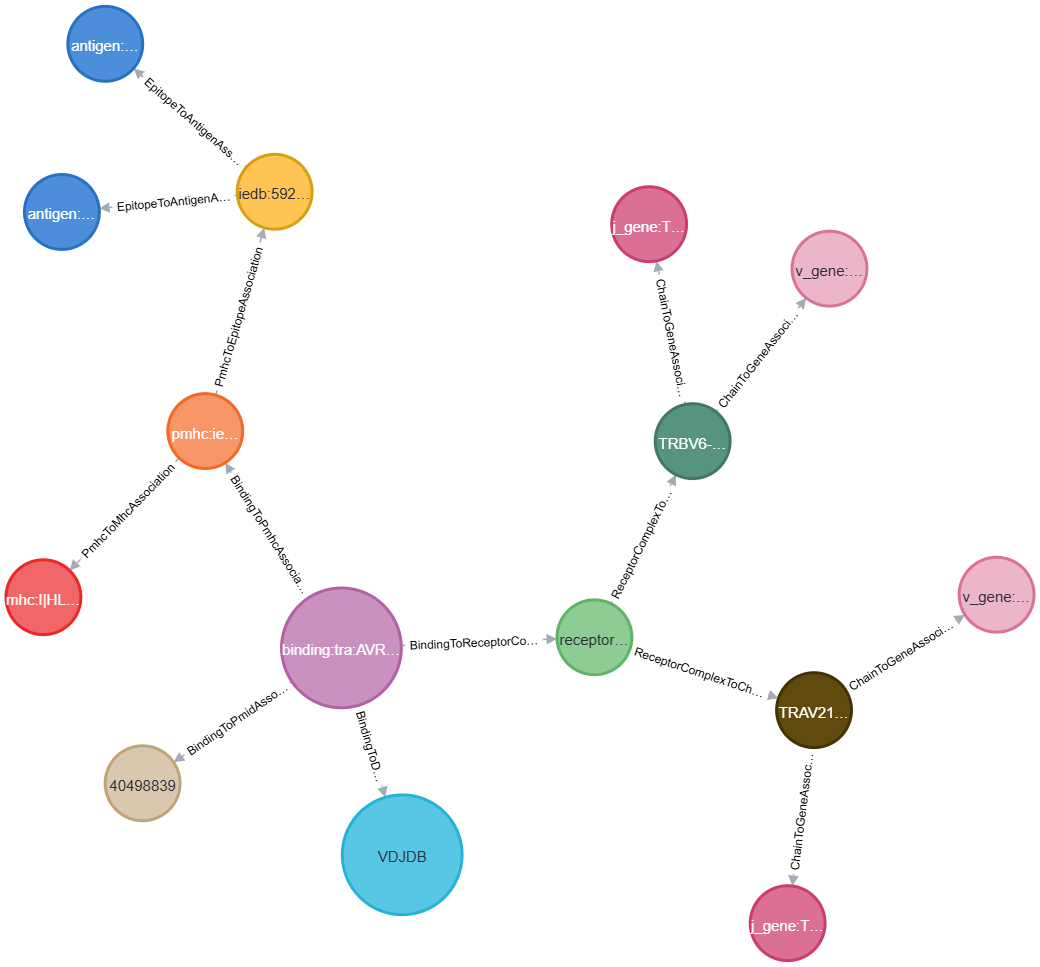
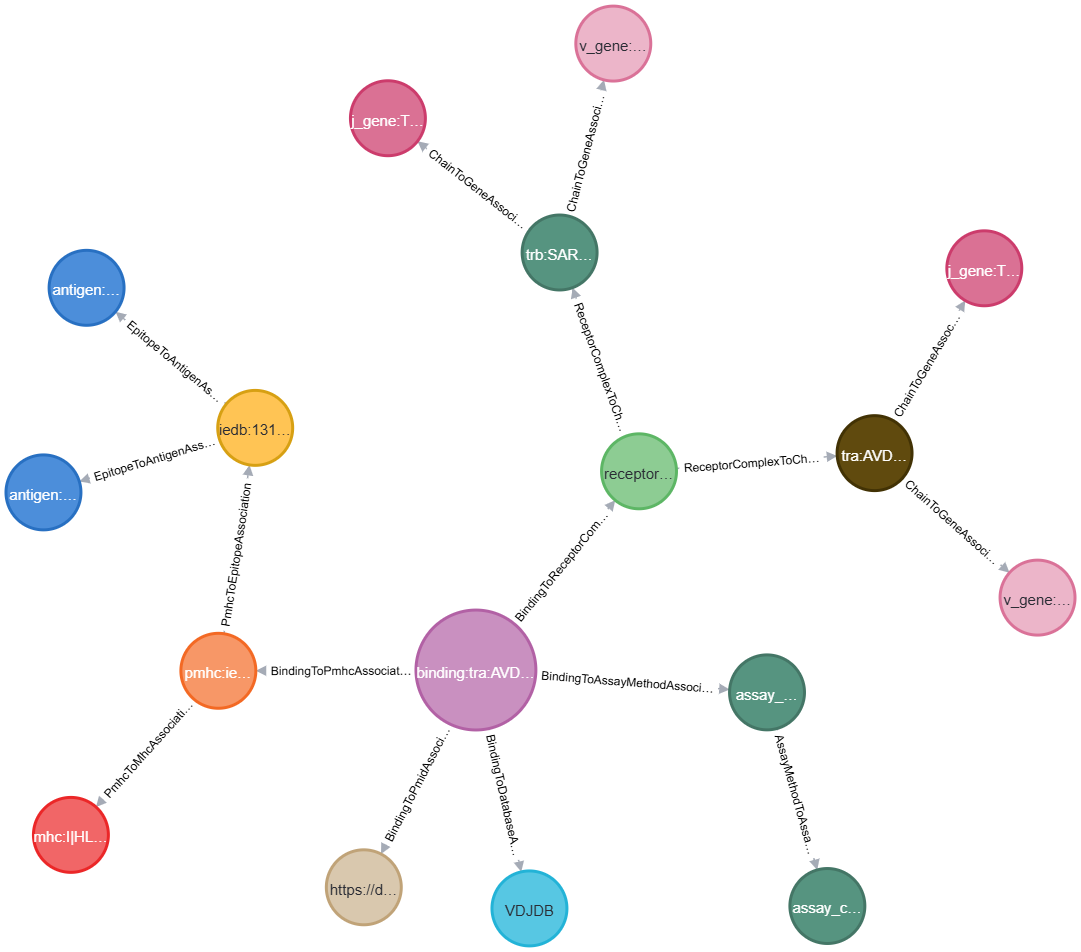
add assay nodes and edges to the kg

diff --git a/src/iggytop/adapters/mapping_utils.py b/src/iggytop/adapters/mapping_utils.py
@@ -304,6 +304,7 @@ _ASSAY_TOKEN_CATEGORY = {
     "ctl clone": ASSAY_CLONAL,
     # biophysical affinity
     "spr": ASSAY_AFFINITY,
+    "focal molography": ASSAY_AFFINITY,
     "bli": ASSAY_AFFINITY,
     # structural
     "structural": ASSAY_STRUCTURAL,
@@ -348,6 +349,25 @@ _IEDB_READOUT_CATEGORY = {
 }
 
 _ASSAY_SEP = "|"
+
+# Method string -> evidence class, filled by `combine_assays` as each source's table is
+# harmonized. The two harmonized columns are independently "|"-joined *sets*, so a record
+# backed by several assays no longer says which of its methods yielded which of its
+# categories -- and the knowledge graph needs exactly that pairing, to link each assay
+# method node to its own category.
+_METHOD_CATEGORY: dict[str, str] = {}
+
+
+def assay_method_categories(value) -> dict[str, str]:
+    """Split one ``assay_method_raw`` cell into ``{method: its own evidence class}``.
+
+    A method that was never categorized (or that no rule matched) maps to ``unknown``.
+    """
+    if value is None or str(value).strip().lower() in ("", "nan"):
+        return {}
+    methods = [m.strip() for m in str(value).split(_ASSAY_SEP) if m.strip()]
+    return {m: _METHOD_CATEGORY.get(m.lower(), ASSAY_UNKNOWN) for m in methods}
+
 
 # A concrete method string that no category rule matched falls through to
 # ``unknown``; every such string is recorded here and dumped to a log file at the
@@ -422,12 +442,20 @@ def combine_assays(pairs) -> tuple[str | None, str]:
     Shared primitive for adapters whose method vocabulary lives in the adapter
     itself (MCPAS codes, BATCAVE assays). Raw tokens are lower-cased, sorted,
     de-duplicated and ``"|"``-joined; categories likewise, with ``"unknown"``
-    dropped whenever a concrete category is present.
+    dropped whenever a concrete category is present. Each pair is also registered in
+    ``_METHOD_CATEGORY``, so :func:`assay_method_categories` can recover which method
+    yielded which category after both have been collapsed into joined sets.
 
     Returns:
         ``(assay_method_raw, assay_category)`` — the category is never None.
     """
     pairs = list(pairs)
+    for raw_token, category in pairs:
+        # A concrete category always wins over `unknown`, so the order in which sources
+        # are read cannot change what `assay_method_categories` reports.
+        key = str(raw_token).strip().lower() if raw_token else ""
+        if key and _METHOD_CATEGORY.get(key, ASSAY_UNKNOWN) == ASSAY_UNKNOWN:
+            _METHOD_CATEGORY[key] = category
     raw = _join_unique(str(r).strip().lower() for r, _ in pairs if r and str(r).strip())
     return raw, _finalize_categories(c for _, c in pairs)
 
@@ -452,7 +480,15 @@ def harmonize_assay_verbs(values, source: str = "?") -> tuple[str | None, str]:
 
 
 def harmonize_assay_iedb(assay_names, source: str = "IEDB") -> tuple[str | None, str]:
-    """Harmonize IEDB/CEDAR ``assay_names`` strings ("readout|technique|unit")."""
+    """Harmonize IEDB/CEDAR ``assay_names`` strings ("readout|technique|unit").
+
+    The method string is normally the technique alone. A *generic* technique (one that
+    doesn't decide the category by itself, notably ``"binding assay"``) is qualified with
+    its readout -- ``"binding assay (dissociation constant kd)"`` -- so the affinity-bearing
+    and uninformative senses stay distinct. They otherwise collapse onto one method string,
+    and since a method carries exactly one category through the knowledge graph, the whole
+    node would inherit whichever sense happened to be concrete.
+    """
     pairs: list[tuple[str, str]] = []
     for name in _iter_nonempty(assay_names):
         parts = [p.strip() for p in str(name).split("|") if p.strip()]
@@ -463,7 +499,13 @@ def harmonize_assay_iedb(assay_names, source: str = "IEDB") -> tuple[str | None,
         raw = technique or readout
         category = _IEDB_TECHNIQUE_CATEGORY.get(technique)
         if category is None or technique == "binding assay":
-            category = _IEDB_READOUT_CATEGORY.get(readout, category)
+            readout_category = _IEDB_READOUT_CATEGORY.get(readout)
+            if readout_category is not None:
+                category = readout_category
+                # The technique alone didn't decide it, so keep the deciding readout in the
+                # method string. Without a technique, `raw` is already the readout.
+                if technique:
+                    raw = f"{technique} ({readout})"
         if not category:
             note_unmapped_assay(source, raw)
             category = ASSAY_UNKNOWN

diff --git a/tests/test_mapping_utils.py b/tests/test_mapping_utils.py
@@ -2,6 +2,7 @@
 
 from iggytop.adapters.mapping_utils import (
     ASSAY_CATEGORIES,
+    assay_method_categories,
     canonicalize_assay_token,
     combine_assays,
     harmonize_assay_iedb,
@@ -50,6 +51,8 @@ def test_harmonize_assay_iedb_reads_technique_field():
         "multimer_binding",
     )
     assert harmonize_assay_iedb(["dissociation constant KD|surface plasmon resonance (SPR)|nM"])[1] == "biophysical_affinity"
+    # a technique that decides the category on its own is not qualified with its readout
+    assert harmonize_assay_iedb(["dissociation constant KD|surface plasmon resonance (SPR)|nM"])[0] == "surface plasmon resonance (spr)"
     assert harmonize_assay_iedb(["3D structure|x-ray crystallography|angstroms"])[1] == "structural"
     assert harmonize_assay_iedb(["T cell binding|High throughput multiplexed assay"])[1] == "high_throughput_screen"
     # several assays on one record combine
@@ -65,6 +68,53 @@ def test_combine_assays_primitive():
     assert raw == "elisa|t-scan"
     assert cat == "functional_activation|high_throughput_screen"
     assert combine_assays([(None, "unknown")]) == (None, "unknown")
+
+
+def test_harmonize_assay_iedb_qualifies_a_generic_technique():
+    # "binding assay" means different things depending on its readout, so the two senses
+    # must not collapse onto one method string: a method carries exactly one category
+    # through the knowledge graph, and the shared node would inherit the concrete one.
+    affinity_raw, affinity_cat = harmonize_assay_iedb(["dissociation constant KD|binding assay|nM"])
+    assert affinity_raw == "binding assay (dissociation constant kd)"
+    assert affinity_cat == "biophysical_affinity"
+
+    plain_raw, plain_cat = harmonize_assay_iedb(["qualitative binding|binding assay"])
+    assert plain_raw == "binding assay"
+    assert plain_cat == "unknown"
+
+    assert affinity_raw != plain_raw
+    assert assay_method_categories(affinity_raw) == {"binding assay (dissociation constant kd)": "biophysical_affinity"}
+    assert assay_method_categories(plain_raw) == {"binding assay": "unknown"}
+
+    # a readout-only record (no technique component) is not double-qualified
+    assert harmonize_assay_iedb(["dissociation constant KD"]) == ("dissociation constant kd", "biophysical_affinity")
+
+
+def test_assay_method_categories_keeps_the_pairing():
+    # The two harmonized columns are independent joined sets, so the knowledge graph
+    # recovers each method's own category from the method string alone.
+    raw, cat = harmonize_assay_verbs("peptide-stimulation,tetramer-sort")
+    assert raw == "peptide-stimulation|tetramer-sort"
+    assert cat == "functional_activation|multimer_binding"
+    assert assay_method_categories(raw) == {
+        "peptide-stimulation": "functional_activation",
+        "tetramer-sort": "multimer_binding",
+    }
+    # a method no source harmonized, and one that was but stayed uncategorized
+    assert assay_method_categories("never-seen-this") == {"never-seen-this": "unknown"}
+    raw, _ = harmonize_assay_verbs("some-new-assay")
+    assert assay_method_categories(raw) == {"some-new-assay": "unknown"}
+    # a record whose source reports no method at all contributes nothing
+    for empty in (None, "", "  ", "nan"):
+        assert assay_method_categories(empty) == {}
+
+
+def test_assay_method_categories_prefers_a_concrete_category():
+    # Registration order must not matter: a concrete category always wins over `unknown`.
+    combine_assays([("ambiguous-assay", "unknown")])
+    combine_assays([("ambiguous-assay", "structural")])
+    combine_assays([("ambiguous-assay", "unknown")])
+    assert assay_method_categories("ambiguous-assay") == {"ambiguous-assay": "structural"}
 
 
 def test_every_category_emitted_is_declared():

diff --git a/src/iggytop/adapters/ontoweaver_transformers.py b/src/iggytop/adapters/ontoweaver_transformers.py
@@ -1,7 +1,8 @@
 """Custom OntoWeaver transformers used by BaseAdapter's OntoWeaver-based node/edge generation.
 
-The graph has a layered hub-and-spoke shape (binding -> {receptor_complex, pmhc, database, PMID},
-receptor_complex -> {chain_1, chain_2}, chain_N -> {v_gene, j_gene}, pmhc -> {epitope, mhc}). OntoWeaver
+The graph has a layered hub-and-spoke shape (binding -> {receptor_complex, pmhc, database, PMID,
+assay_method}, receptor_complex -> {chain_1, chain_2}, chain_N -> {v_gene, j_gene},
+pmhc -> {epitope, mhc}). OntoWeaver
 maps one row-subject with radiating edges per mapping pass, so each hub in that hierarchy needs its own
 mapping pass (see the `ontoweaver_mapping_*.yaml` files), reconciled together afterwards. Composite
 entities (receptor_complex, pmhc, binding) don't have a column holding their id directly -- their id is
@@ -188,14 +189,17 @@ class prefixed_id(base.Transformer):  # noqa: N801
 
     `prefix` is a mapping-level parameter (e.g. `prefixed_id: {columns: [chain_1_v_call], prefix: v_gene, ...}`),
     used for reference/leaf entities whose id is the whole of their informational content (v_gene, j_gene, PMID).
+    The optional `separator` parameter splits the column value first, yielding one id per part -- for columns
+    holding a joined *set* of values (a record's `assay_method_raw` is "|"-joined when several assays support it).
     """
 
     class ValueMaker(ValueMaker):
-        """Computes the id value for a single row; see the enclosing class's docstring."""
+        """Computes the id value(s) for a single row; see the enclosing class's docstring."""
 
-        def __init__(self, prefix: str, raise_errors: bool = True):
-            """Store the prefix to prepend to the column value."""
+        def __init__(self, prefix: str, separator: str | None = None, raise_errors: bool = True):
+            """Store the prefix to prepend to each value, and the separator to split the cell on."""
             self.prefix = prefix
+            self.separator = separator
             super().__init__(raise_errors)
 
         def __call__(self, columns, row, i):
@@ -203,7 +207,9 @@ class prefixed_id(base.Transformer):  # noqa: N801
             if col not in row or _is_missing(row[col]):
                 yield ""
                 return
-            yield f"{self.prefix}:{row[col]}"
+            value = str(row[col])
+            for part in value.split(self.separator) if self.separator else [value]:
+                yield f"{self.prefix}:{part.strip()}" if part.strip() else ""
 
     def __init__(  # noqa: PLR0913 (signature mirrors ontoweaver.base.Transformer's, e.g. `cat`)
         self,
@@ -215,10 +221,11 @@ class prefixed_id(base.Transformer):  # noqa: N801
         multi_type_dict=None,
         raise_errors=True,
         prefix=None,
+        separator=None,
         **kwargs,
     ):
         """Initialize the transformer (see the class docstring)."""
-        self.value_maker = self.ValueMaker(prefix, raise_errors=raise_errors)
+        self.value_maker = self.ValueMaker(prefix, separator, raise_errors=raise_errors)
         super().__init__(
             properties_of,
             self.value_maker,

diff --git a/src/iggytop/adapters/base_adapter.py b/src/iggytop/adapters/base_adapter.py
@@ -18,6 +18,7 @@ from tqdm.auto import tqdm
 
 from . import ontoweaver_transformers  # noqa: F401 (registers the custom id transformers)
 from .constants import REGISTRY_KEYS
+from .mapping_utils import assay_method_categories
 from .utils import get_file_checksum
 
 if TYPE_CHECKING:
@@ -31,7 +32,7 @@ def _load_ontoweaver_mapping(filename: str) -> dict:
 
 
 # One mapping per hub in the graph's hub-and-spoke hierarchy:
-#   binding -> {receptor_complex, pmhc, database, PMID}
+#   binding -> {receptor_complex, pmhc, database, PMID, assay_method}
 #   receptor_complex -> {chain_1, chain_2}
 #   chain_N -> {v_gene, j_gene}
 #   pmhc -> {epitope, mhc}
@@ -230,7 +231,7 @@ class BaseAdapter(ABC):
             table = self.table.copy()
 
             # Add any missing columns that OntoWeaver expects to see, but which may not be present in the table
-            for _col in (REGISTRY_KEYS.MHC_GENE_2_KEY, REGISTRY_KEYS.TISSUE_KEY):
+            for _col in (REGISTRY_KEYS.MHC_GENE_2_KEY, REGISTRY_KEYS.TISSUE_KEY, REGISTRY_KEYS.ASSAY_METHOD_RAW_KEY):
                 if _col not in table.columns:
                     table[_col] = None
 
@@ -269,9 +270,27 @@ class BaseAdapter(ABC):
                 [(table, mapping) for mapping in _ONTOWEAVER_MAPPINGS],
                 affix="none",
             )
+            node_tuples = [n.as_tuple() for n in nodes]
+            edge_tuples = [e.as_tuple() for e in edges]
+
+            # A method belongs to exactly one assay_category, so `assay_method -> assay_category`
+            # is a handful of vocabulary edges rather than per-record data (the binding ->
+            # assay_method edges, which *are* per-record, come from the binding mapping; the
+            # reconciliation below merges its property-less method nodes with the ones added here).
+            # It also can't be mapped row-wise: a row's two assay columns are independently
+            # "|"-joined sets, so pairing them off would link every method of a multi-assay record
+            # to every one of its categories -- `assay_method_categories` restores the pairing.
+            for cell in table[REGISTRY_KEYS.ASSAY_METHOD_RAW_KEY].unique():
+                for method, category in assay_method_categories(cell).items():
+                    method_id, category_id = f"assay_method:{method}", f"assay_category:{category}"
+                    node_tuples.append((method_id, "assay_method", {"method": method}))
+                    node_tuples.append((category_id, "assay_category", {"category": category}))
+                    edge_id = f"({method_id})--[assay_method_to_assay_category]->({category_id})"
+                    edge_tuples.append((edge_id, method_id, category_id, "assay_method_to_assay_category", {}))
+
             fnodes, fedges = ontoweaver.fusion.reconciliate(
-                [n.as_tuple() for n in nodes],
-                [e.as_tuple() for e in edges],
+                node_tuples,
+                edge_tuples,
                 reconciliate_sep=",",
                 progress_bar=True,
             )

diff --git a/src/iggytop/adapters/tcr3d_adapter.py b/src/iggytop/adapters/tcr3d_adapter.py
@@ -3,6 +3,7 @@ from biocypher import BioCypher, FileDownload
 
 from .base_adapter import BaseAdapter
 from .constants import REGISTRY_KEYS
+from .mapping_utils import ASSAY_STRUCTURAL, combine_assays
 from .utils import harmonize_sequences, normalize_table_strings
 
 
@@ -84,9 +85,12 @@ class TCR3DAdapter(BaseAdapter):
         table = table[list(rename_cols.values())]
 
         # Every TCR3D entry is a solved TCR-pMHC co-structure (the source carries a
-        # PDB ID and resolution but no per-entry method column).
-        table[REGISTRY_KEYS.ASSAY_METHOD_RAW_KEY] = "structural"
-        table[REGISTRY_KEYS.ASSAY_CATEGORY_KEY] = "structural"
+        # PDB ID and resolution but no per-entry method column). Routed through
+        # `combine_assays` like every other source, so the method also registers its
+        # category for the knowledge graph's method -> category edge.
+        raw, category = combine_assays([("structural", ASSAY_STRUCTURAL)])
+        table[REGISTRY_KEYS.ASSAY_METHOD_RAW_KEY] = raw
+        table[REGISTRY_KEYS.ASSAY_CATEGORY_KEY] = category
 
         # Pubmed IDs are sometimes parsed as floats (e.g. 8906788.0); convert to clean strings
         table[REGISTRY_KEYS.PUBLICATION_KEY] = table[REGISTRY_KEYS.PUBLICATION_KEY].apply(

diff --git a/src/iggytop/adapters/itrap_adapter.py b/src/iggytop/adapters/itrap_adapter.py
@@ -3,6 +3,7 @@ from biocypher import BioCypher, FileDownload
 
 from .base_adapter import BaseAdapter
 from .constants import REGISTRY_KEYS
+from .mapping_utils import ASSAY_MULTIMER, combine_assays
 from .utils import get_github_file_last_modified, harmonize_sequences, normalize_table_strings
 
 
@@ -162,8 +163,11 @@ class ITRAPAdapter(BaseAdapter):
 
         # ITRAP is the curated output of the 10x Genomics dextramer benchmark: every
         # pairing comes from a single-cell pMHC-dextramer multiplexed binding assay.
-        table[REGISTRY_KEYS.ASSAY_METHOD_RAW_KEY] = "dextramer-sort"
-        table[REGISTRY_KEYS.ASSAY_CATEGORY_KEY] = "multimer_binding"
+        # (Routed through `combine_assays` like every other source, so the method also
+        # registers its category for the knowledge graph's method -> category edge.)
+        raw, category = combine_assays([("dextramer-sort", ASSAY_MULTIMER)])
+        table[REGISTRY_KEYS.ASSAY_METHOD_RAW_KEY] = raw
+        table[REGISTRY_KEYS.ASSAY_CATEGORY_KEY] = category
 
         # Apply antigen mapping
         def apply_mapping(peptide):

diff --git a/docs/source/graph_data_structure.md b/docs/source/graph_data_structure.md
@@ -46,6 +46,8 @@ The ontology used for iggytop is defined in `config/schema_config.yaml`. This in
 ```text
 entity
 ├── association
+│   ├── assay method to assay category association
+│   ├── binding to assay method association
 │   ├── binding to database association
 │   ├── binding to pmhc association
 │   ├── binding to pmid association
@@ -57,6 +59,8 @@ entity
 │   └── receptor complex to chain association
 └── named thing
     ├── PMID
+    ├── assay category
+    ├── assay method
     ├── binding
     ├── biological entity
     │   ├── antigen
@@ -77,6 +81,8 @@ entity
 INFO:biocypher:
 entity
 ├── association
+│   ├── assay method to assay category association
+│   ├── binding to assay method association
 │   ├── binding to database association
 │   ├── binding to pmhc association
 │   ├── binding to pmid association
@@ -88,6 +94,8 @@ entity
 │   └── receptor complex to chain association
 └── named thing
     ├── PMID
+    ├── assay category
+    ├── assay method
     ├── binding
     ├── biological entity
     │   ├── antigen
@@ -113,6 +121,7 @@ The graph is organized as a hub-and-spoke hierarchy around a central **binding**
 
 - Each `binding` node has exactly one edge to a `receptor complex` node and exactly one edge to a `pmhc` node — together these identify *which receptor* was reported to recognize *which peptide-MHC*.
 - The same pairing reported by several sources (e.g. the same complex-pmhc pairing appearing in both VDJDB and IEDB, or the same source citing multiple publications) collapses onto the **same** `binding` node: its ID is built from the receptor complex and pmhc content, deliberately excluding source/database/PMID. That shared node can then carry edges out to *every* `database` and `PMID` node that reported it, rather than one row per source.
+- Each `binding` node also carries one edge per assay that was reported to establish it, to an `assay method` node (the harmonized method string, e.g. `tetramer-sort`), which in turn links to the `assay category` node holding its evidence class (`multimer_binding`, `functional_activation`, `structural`, …). A record whose source doesn't say how the pairing was established simply has no `binding to assay method` edge.
 - `receptor complex` and `pmhc` are themselves join nodes: a `receptor complex` links to its `chain_1`/`chain_2` nodes, and a `pmhc` links to its `epitope` and `mhc` nodes. Because these nodes are shared (deduplicated) rather than duplicated per record, records with, e.g., the same V/J gene or the same epitope naturally converge on the same downstream nodes — this is how the graph surfaces similarities between receptors and epitopes across the whole dataset, rather than just stacking independent rows.
 
 #### Nodes
@@ -129,6 +138,8 @@ The graph is organized as a hub-and-spoke hierarchy around a central **binding**
 | `mhc` | polypeptide | `MHC_class`, `MHC_gene_1`, `MHC_gene_2` |
 | `database` | named thing | `version` |
 | `PMID` | named thing | `pmid` |
+| `assay method` | named thing | `method` |
+| `assay category` | named thing | `category` |
 
 #### Edges
 
@@ -138,6 +149,8 @@ The graph is organized as a hub-and-spoke hierarchy around a central **binding**
 | binding to pmhc association | `binding` → `pmhc` |
 | binding to database association | `binding` → `database` |
 | binding to pmid association | `binding` → `PMID` |
+| binding to assay method association | `binding` → `assay method` |
+| assay method to assay category association | `assay method` → `assay category` |
 | receptor complex to chain association | `receptor complex` → `chain_1` / `chain_2` |
 | chain to gene association | `chain_1`/`chain_2` → `v_gene` / `j_gene` |
 | pmhc to epitope association | `pmhc` → `epitope` |

diff --git a/README.md b/README.md
@@ -176,7 +176,7 @@ from a single `Binding` node — the central node type linking a TCR/BCR
 receptor to the epitope it binds — and follow its relationships a few hops
 out:
 ```
-MATCH path = (n:Binding)-[*1..4]->(m) WHERE n.complete = true RETURN path LIMIT 14
+MATCH path = (n:Binding)-[*1..4]->(m) WHERE n.complete = true RETURN path LIMIT 16
 ```
 For more information on the Graph schema, check out [Graph Data Structure](https://iggytop.readthedocs.io/en/latest/graph_data_structure.html).
 The result should look similar to this:
